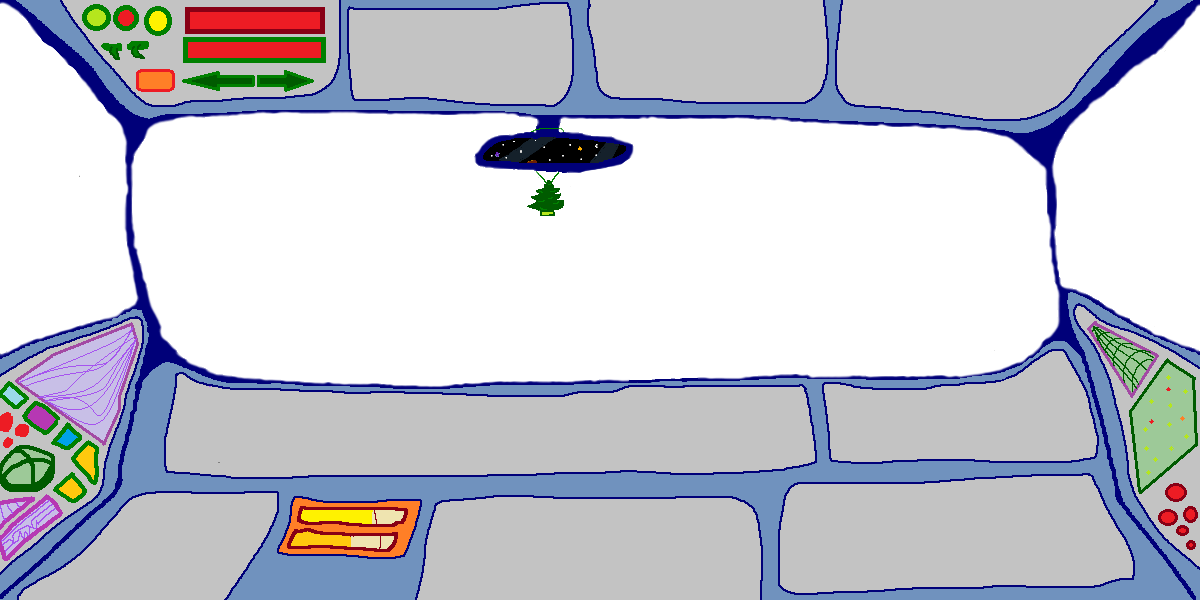
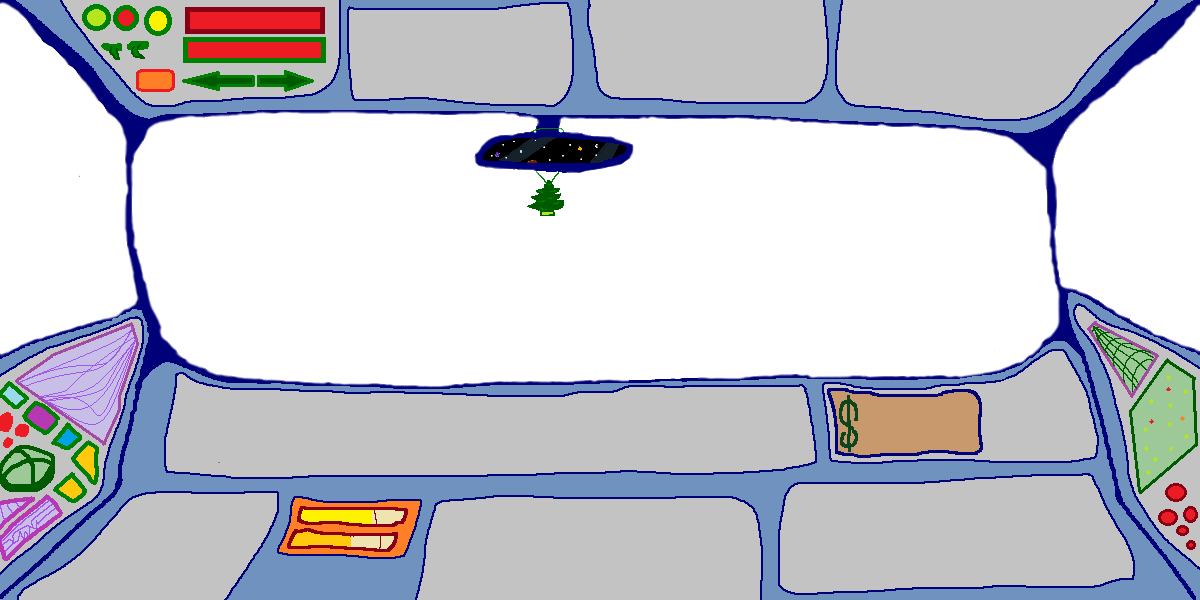
Score

Changed region(s): [[0.6783, 0.63, 0.8325, 0.78]]

diff --git a/scripts/game.py b/scripts/game.py
@@ -2,10 +2,12 @@ import os
 import math
 import random
 import pygame as pg
+
+import scores
 import game_objects as go
 import configs as configs
+import scene_management as scenes
 from event_bus import EventBus
-import scene_management as scene
 
 # Display :
 SCREEN_WIDTH = 1200
@@ -28,9 +30,11 @@ RETICLE_BOUNDS_X = (160,1050)
 RETICLE_BOUNDS_Y = (125,370)
 
 # Scenes :
-class GameScene(scene.Scene) :
+class GameScene(scenes.Scene) :
 ### ↓ GAME LOGIC HERE ↓ ###
     def load(self) :
+        self.score = 0
+
         self.spawn_timer = 0
         self.spawn_interval = self.random_interval()
         self.first_garbage_timer = 1.0
@@ -46,6 +50,7 @@ class GameScene(scene.Scene) :
         pg.mixer.music.load("assets/sound/ambient_horror.wav")
         pg.mixer.music.set_volume(0.5)
         pg.mixer.music.play()
+
         # Events :
         self._register_events()
 
@@ -60,6 +65,13 @@ class GameScene(scene.Scene) :
             position=SCREEN_CENTER,  
             layer=COCKPIT_LAYER)
         
+        self.score_display = TextObject(
+            position=(960, 425),
+            layer=COCKPIT_LAYER,
+            font_size=50,
+            color=(13, 69, 30),
+            text="0")
+
         self.portrait = HangingPortrait(
             image=self.assets.get("family_portrait_hanging.png"),
             position=(1000, 80),
@@ -113,6 +125,7 @@ class GameScene(scene.Scene) :
         EventBus.on("garbage_escaped", self.on_garbage_collision)
         EventBus.on("garbage_destroyed", self.on_garbage_destroyed)
         EventBus.on("reticles_snap", self.on_reticles_snapped)
+        EventBus.on("game_over", self.on_game_over)
     
     def _unregister_event(self, event, callback):
         EventBus.off(event, callback)
@@ -135,6 +148,7 @@ class GameScene(scene.Scene) :
         if self.reticles_snapped :
             for garbage in self.garbage_on_screen :
                 if pg.sprite.collide_mask(garbage, self.viewfinder) and self.red_button.is_clicked : 
+                    EventBus.emit("garbage_destroyed", garbage=self)
                     garbage.destroy()
                     
         # Respawning garbage logic :
@@ -150,6 +164,11 @@ class GameScene(scene.Scene) :
             self.first_garbage_timer -= dt
             if self.first_garbage_timer <= 0:
                 self.first_garbage = False
+    
+    def on_game_over(self, score) :
+        self.final_score = score
+        scores.update_best(score)
+        scenes.SceneManager().switch(GameOverScene(score=score))
 
     # Garbage
     def random_interval(self) :
@@ -185,6 +204,8 @@ class GameScene(scene.Scene) :
         self.spawn_cracks(position)
 
     def on_garbage_destroyed(self, garbage) :
+        self.score += 1
+        self.score_display.set_text(str(self.score))
         self.garbage_on_screen.remove(garbage)
 
     # Reticles
@@ -223,10 +244,14 @@ class GameScene(scene.Scene) :
         self.set_all_buttons_to_decoys()
         self.set_random_buttons_active()
 
-class MenuScene(scene.Scene) :
+class MenuScene(scenes.Scene) :
     def load(self) :
         pass
 
+class GameOverScene(scenes.Scene) :
+    def load(self):
+        return super().load()
+    
 # Game Objects :
 class ZoomingBackground(go.ZoomingObject) :
     def __init__(self, scaling_speed = 0.03, max_scale = 3, **kwargs):
@@ -251,9 +276,7 @@ class Garbage(go.ZoomingRotatingObject):
             self.destroy()
     
     def destroy(self):
-        EventBus.emit("garbage_destroyed", garbage=self)
         return super().destroy()
-
 
 class Cockpit(go.GameObject):
     def __init__(self, image, position, layer):
@@ -270,8 +293,7 @@ class Cockpit(go.GameObject):
         if self.cockpit_actual_pv <= 0:
             #launch game over
             print("game over")
-    
-
+            EventBus.emit("game_over")
 class Button(go.AnimatedObject, go.ClickableObject, go.OutlineHoverEffectObjects):
     def __init__(self, images, position, layer, frame_duration = 0.1):
         super().__init__(images, position, layer, frame_duration)
@@ -294,7 +316,6 @@ class Button(go.AnimatedObject, go.ClickableObject, go.OutlineHoverEffectObjects
             self.image = self.images[-1] # Image stays on click
         else:
             self.image = self.images[0] # Resets to idle on release
-        
 class ReticlesButton(Button) :
     def __init__(self, images, position, layer, frame_duration:float=0.1):
         super().__init__(images, position, layer, frame_duration)
@@ -399,7 +420,6 @@ class Reticles(go.SnappingObject):
         self.set_position(target.rect.center)
         self.is_snapped = True
     
-
 class HangingPortrait(go.RotatingObject) :
     def __init__(self, amplitude:float=5, rotation_speed=2, **kwargs):
         super().__init__(rotation_speed, **kwargs)
@@ -421,3 +441,24 @@ class HangingPortrait(go.RotatingObject) :
         
         # Place rect so the pin stays fixed
         self.rect = self.image.get_rect(center=self.pin + offset)
+
+class TextObject(go.GameObject) :
+    def __init__(self, position, layer, font_size=32, color=(255, 255, 255), text=""):
+        self.text = text
+        self.font = pg.font.Font(None, font_size)
+        self.color = color
+        self.anchor = position
+        image = self._render(self.text)
+
+        super().__init__(image, position, layer)
+
+    def _render(self, text:str) :
+        return self.font.render(text, True, self.color)
+    
+    def set_text(self, text:str) :
+        self.image = self._render(text)
+        self.rect = self.image.get_rect(midright=self.anchor)
+
+class ScoreDisplay(TextObject) :
+    def set_text(self, text):
+        super().set_text(self.set_text + text)

diff --git a/scripts/main.py b/scripts/main.py
@@ -1,5 +1,5 @@
 import pygame as pg
-import scene_management as scene
+import scene_management as scenes
 import game 
 
 SCREEN_WIDTH = 1200
@@ -21,7 +21,7 @@ screen = pg.display.set_mode((SCREEN_WIDTH, SCREEN_HEIGHT))
 clock = pg.time.Clock()
 running = True
 
-scenes = scene.SceneManager()
+scenes = scenes.SceneManager()
 
 scenes.switch(game.GameScene()) # MenuScene later 
 

diff --git a/scripts/scores.py b/scripts/scores.py
@@ -1,0 +1,6 @@
+best_score = 0
+
+def update_best(score) :
+    global best_score
+    if score > best_score :
+        best_score = score
